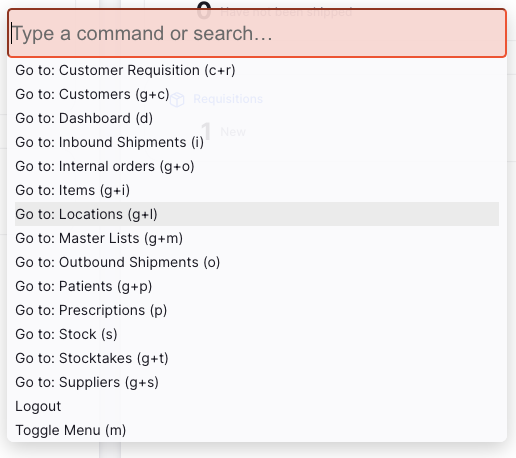
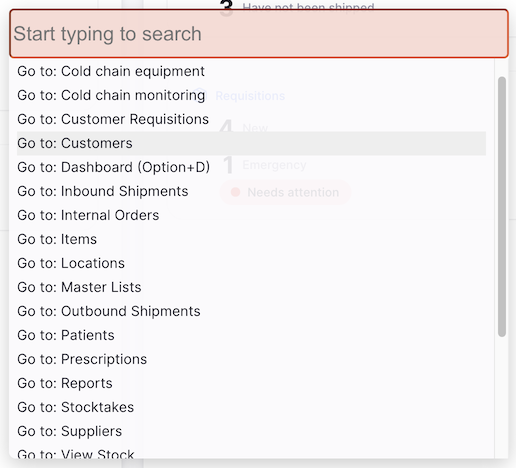
from 78172813e68f021678c5a8bc489794faebef0e90

Changed region(s): [[0.031, 0.2445, 0.9612, 1.0], [0.0, 0.0, 0.9922, 0.214], [0.9612, 0.1528, 0.9922, 0.7336]]

diff --git a/content/docs/settings/permissions/index.md b/content/docs/settings/permissions/index.md
@@ -24,40 +24,40 @@ The following table lists the area and name of the permissions in the central se
 
 In addition to these specific permissions, you'll need to ensure that the user has access to the store(s) which they'll be working in.
 
-| Tab                  | Area                        | Permission                                           | Description                                                                                                        |
-| -------------------- | --------------------------- | ---------------------------------------------------- | ------------------------------------------------------------------------------------------------------------------ |
-| Permissions          | Admin                       | Access server administration                         | Allows access to the `Settings` page                                                                               |
-|                      | Items                       | Manage locations                                     | Allows a user to maintain locations                                                                                |
-|                      |                             | Edit items                                           | Able to edit items, required when saving a barcode                                                                 |
-|                      |                             | Edit Item names, codes and units                     | Can maintain pack variants                                                                                         |
-|                      |                             | View stock                                           | View stock lines                                                                                                   |
-|                      |                             | Edit stock                                           | Modify stock lines                                                                                                 |
-|                      |                             | Create Repack Or Split Stock                         | Can create repack or split stock lines                                                                             |
-|                      |                             | Enter Inventory Adjustments                          | Can maintain inventory adjustments                                                                                 |
-| Permissions (2)      | Invoices                    | View customer invoices                               | Can view Outbound Shipments. Also used to query statistics on the dashboard                                        |
-|                      |                             | Create customer invoices                             | Can maintain Outbound Shipments                                                                                    |
-|                      |                             | Edit customer invoices                               | Can maintain Outbound Shipments - if either edit or create permission is given the user can edit                   |
-|                      |                             | Return stock from supplier invoices                  | Can return stock from Inbound Shipments                                                                            |
-|                      |                             | View supplier invoices                               | Can view Inbound Shipments. Also used to query statistics on the dashboard                                         |
-|                      |                             | Create supplier invoices                             | Can maintain Inbound Shipments                                                                                     |
-|                      |                             | Edit supplier invoices                               | Can maintain Inbound Shipments - if either edit or create permission is given the user can edit                    |
-|                      |                             | Return stock from customer invoices                  | Can return stock from Outbound Shipments                                                                           |
-|                      | Reports                     | View reports                                         | Required to print pages, as this uses the reporting system                                                         |
-|                      | Patients                    | View patients                                        | Can view Patients                                                                                                  |
-|                      |                             | Add Patients                                         | Can maintain Patients                                                                                              |
-|                      |                             | Edit Patient Details                                 | Can maintain Patients - if either add or edit permission is given the user can edit                                |
-| Permissions (3)      | Admin                       | View log                                             | Able to view the logs, these show as a tab on many windows                                                         |
-|                      | Requisitions                | View requisitions                                    | Can view Requisitions and R&R Forms                                                                                |
-|                      |                             | Create and edit requisitions                         | Can maintain Requisitions and R&R Forms                                                                            |
-|                      | Stocktakes                  | Create Stocktake                                     | Can create Stocktakes                                                                                              |
-|                      |                             | Delete Stocktake                                     | Can delete Stocktakes                                                                                              |
-|                      |                             | Add Stocktake lines                                  | Can add Stocktake lines                                                                                            |
-|                      |                             | Edit Stocktake lines                                 | Can edit Stocktake lines                                                                                           |
-|                      | Vaccines                    | View sensor details                                  | Can view sensor details                                                                                            |
-|                      |                             | Edit sensor location                                 | Can edit sensor location                                                                                           |
-|                      | Assets                      | View assets                                          | Can view Assets                                                                                                    |
-|                      |                             | Add, edit assets                                     | Can maintain Assets                                                                                                |
-|                      |                             | Setup Assets                                         | Can import Asset catalogue items                                                                                   |
-| omSupply Permissions | Internal Order              | Confirm Internal Order sent                          | Can confirm Internal Orders as sent                                                                                |
-|                      | API Access                  | Cold chain API access                                | Can access the Cold Chain API                                                                                      |
-|                      | Open mSupply Central Server | Can modify central data (requires mSupply v7.15.05+) | Can modify data managed by in the Open mSupply Central Server (e.g. Demographic Indicators, Immunization Programs) |
+| Tab                  | Area                        | Permission                                           | Description                                                                                                                                      |
+| -------------------- | --------------------------- | ---------------------------------------------------- | ------------------------------------------------------------------------------------------------------------------------------------------------ |
+| Permissions          | Admin                       | Access server administration                         | Allows access to the `Synchronisation`, `Support`, `Devices` and also, if on the central server, `Configuration` pages in the `Settings` section |
+|                      | Items                       | Manage locations                                     | Allows a user to maintain locations                                                                                                              |
+|                      |                             | Edit items                                           | Able to edit items, required when saving a barcode                                                                                               |
+|                      |                             | Edit Item names, codes and units                     | Can maintain pack variants                                                                                                                       |
+|                      |                             | View stock                                           | View stock lines                                                                                                                                 |
+|                      |                             | Edit stock                                           | Modify stock lines                                                                                                                               |
+|                      |                             | Create Repack Or Split Stock                         | Can create repack or split stock lines                                                                                                           |
+|                      |                             | Enter Inventory Adjustments                          | Can maintain inventory adjustments                                                                                                               |
+| Permissions (2)      | Invoices                    | View customer invoices                               | Can view Outbound Shipments. Also used to query statistics on the dashboard                                                                      |
+|                      |                             | Create customer invoices                             | Can maintain Outbound Shipments                                                                                                                  |
+|                      |                             | Edit customer invoices                               | Can maintain Outbound Shipments - if either edit or create permission is given the user can edit                                                 |
+|                      |                             | Return stock from supplier invoices                  | Can return stock from Inbound Shipments                                                                                                          |
+|                      |                             | View supplier invoices                               | Can view Inbound Shipments. Also used to query statistics on the dashboard                                                                       |
+|                      |                             | Create supplier invoices                             | Can maintain Inbound Shipments                                                                                                                   |
+|                      |                             | Edit supplier invoices                               | Can maintain Inbound Shipments - if either edit or create permission is given the user can edit                                                  |
+|                      |                             | Return stock from customer invoices                  | Can return stock from Outbound Shipments                                                                                                         |
+|                      | Reports                     | View reports                                         | Required to print pages, as this uses the reporting system                                                                                       |
+|                      | Patients                    | View patients                                        | Can view Patients                                                                                                                                |
+|                      |                             | Add Patients                                         | Can maintain Patients                                                                                                                            |
+|                      |                             | Edit Patient Details                                 | Can maintain Patients - if either add or edit permission is given the user can edit                                                              |
+| Permissions (3)      | Admin                       | View log                                             | Able to view the logs, these show as a tab on many windows                                                                                       |
+|                      | Requisitions                | View requisitions                                    | Can view Requisitions and R&R Forms                                                                                                              |
+|                      |                             | Create and edit requisitions                         | Can maintain Requisitions and R&R Forms                                                                                                          |
+|                      | Stocktakes                  | Create Stocktake                                     | Can create Stocktakes                                                                                                                            |
+|                      |                             | Delete Stocktake                                     | Can delete Stocktakes                                                                                                                            |
+|                      |                             | Add Stocktake lines                                  | Can add Stocktake lines                                                                                                                          |
+|                      |                             | Edit Stocktake lines                                 | Can edit Stocktake lines                                                                                                                         |
+|                      | Vaccines                    | View sensor details                                  | Can view sensor details                                                                                                                          |
+|                      |                             | Edit sensor location                                 | Can edit sensor location                                                                                                                         |
+|                      | Assets                      | View assets                                          | Can view Assets                                                                                                                                  |
+|                      |                             | Add, edit assets                                     | Can maintain Assets                                                                                                                              |
+|                      |                             | Setup Assets                                         | Can import Asset catalogue items                                                                                                                 |
+| omSupply Permissions | Internal Order              | Confirm Internal Order sent                          | Can confirm Internal Orders as sent                                                                                                              |
+|                      | API Access                  | Cold chain API access                                | Can access the Cold Chain API                                                                                                                    |
+|                      | Open mSupply Central Server | Can modify central data (requires mSupply v7.15.05+) | Can modify data managed by in the Open mSupply Central Server (e.g. Demographic Indicators, Immunization Programs)                               |

diff --git a/content/docs/getting_started/tutorial/index.es.md b/content/docs/getting_started/tutorial/index.es.md
@@ -12,10 +12,9 @@ template = "docs/page.html"
 toc = true
 +++
 
-## Tutorial Open mSupply 
+## Tutorial Open mSupply
 
 Este tutorial está diseñado para guiarte a través de los conceptos básicos del uso de Open mSupply.
-
 
 ## Inicio de sesión
 
@@ -27,12 +26,12 @@ Este tutorial está diseñado para guiarte a través de los conceptos básicos d
 
 4. Ingresa tu nombre de usuario y contraseña y presiona <enter> en tu teclado o haz clic en el botón [Iniciar sesión].
 
-Si todo va bien, serás redirigido a la página del tablero de control. 
+Si todo va bien, serás redirigido a la página del tablero de control.
 Si hubo un problema, verás un mensaje de error como este:
 
 ![login!](images/log_in_error.png)
 
- Intenta volver a escribir tu nombre de usuario y contraseña. Recuerda que ambos son sensibles a las mayúsculas y minúsculas. Una vez que hayas iniciado sesión, se seleccionará automáticamente el almacén predeterminado de tu usuario. Si tienes acceso a otros almacenes, podrás cambiar entre ellos después de iniciar sesión (ver más abajo).Si ya has iniciado sesión antes y has cambiado de almacén, se seleccionará automáticamente el almacén más reciente cuando inicies sesión de nuevo.
+Intenta volver a escribir tu nombre de usuario y contraseña. Recuerda que ambos son sensibles a las mayúsculas y minúsculas. Una vez que hayas iniciado sesión, se seleccionará automáticamente el almacén predeterminado de tu usuario. Si tienes acceso a otros almacenes, podrás cambiar entre ellos después de iniciar sesión (ver más abajo).Si ya has iniciado sesión antes y has cambiado de almacén, se seleccionará automáticamente el almacén más reciente cuando inicies sesión de nuevo.
 
 ## Navegación
 
@@ -53,13 +52,13 @@ Esto te mostrará la siguiente ventana, sin importar en qué página te encuentr
 
 ![CommandK](images/cmd_k.png)
 
-Esto te muestra la lista de atajos disponibles globalmente, por ejemplo, presionar `d` en tu teclado te llevará al tablero de control (¡a menos que estés escribiendo texto en un campo de entrada!).
+Esto te muestra la lista de atajos disponibles globalmente, por ejemplo, pulsando `Alt+D` (u `Opción+D` en un mac) en tu teclado te llevará al tablero de control (¡a menos que estés escribiendo texto en un campo de entrada!).
 
 Sin embargo, también puedes hacer clic en un elemento de la lista o buscar comandos disponibles:
 
-![CommandK](images/cmd_k.gif)
+![CommandK](images/cmd_k_filtered.png)
 
-Además, hay varios lugares donde están disponibles los atajos de teclado específicos. Un ejemplo es el control de pestañas utilizado tanto en Inventario como en Entradas. Aquí puedes usar `control`+`1` para navegar a la primera pestaña (Cantidades) o`control`+`2`  para la segunda pestaña (Precios), etc. Si presionas`+` en tu teclado, puedes agregar un nuevo lote.
+Además, hay varios lugares donde están disponibles los atajos de teclado específicos. Un ejemplo es el control de pestañas utilizado tanto en Inventario como en Entradas. Aquí puedes usar `control`+`1` para navegar a la primera pestaña (Cantidades) o`control`+`2` para la segunda pestaña (Precios), etc. Si presionas`+` en tu teclado, puedes agregar un nuevo lote.
 
 ![Inbound tabs](images/is_edit_keyboard_shortcuts.png)
 
@@ -78,7 +77,6 @@ Verás la notificación y el nombre del almacén en el pie de página se actuali
 De manera similar, puedes seleccionar otro idioma haciendo clic en el idioma actual en el pie de página:
 
 ![Footer](images/footer_select_language.png)
-
 
 ## ¡Ayuda!
 

diff --git a/content/docs/getting_started/tutorial/index.md b/content/docs/getting_started/tutorial/index.md
@@ -54,13 +54,15 @@ This will bring up the following window, no matter which page you are on:
 
 ![CommandK](images/cmd_k.png)
 
-This shows you the list of globally available shortcuts, for example pressing `d` on your keyboard will take you to the dashboard (unless you are entering text into an input field!).
+This shows you the list of globally available shortcuts, for example pressing `Alt+D` (or `Option+D` on a mac) on your keyboard will take you to the dashboard (unless you are entering text into an input field!).
 
-However, you can also click on an item in the list, or search available commands:
+However, you can also click on an item in the list using your mouse, or search available commands:
 
-![CommandK](images/cmd_k.gif)
+![CommandK](images/cmd_k_filtered.png)
 
-In addition - there are various places where specific keyboard shortcuts are available. An example is the tab control used in both Stocktakes and Inbound Shipments. Here you can use `control`+`1` to navigate to the first tab (Quantities) or `control`+`2` for the second tab (Pricing) etc. If you press `+` on your keyboard, you can add a new batch.
+You can then use the arrow keys on the keyboard to move up and down the list and click Enter/Return on the line highlighted in grey.
+
+There are also various places where specific keyboard shortcuts are available. An example is the tab control used in both Stocktakes and Inbound Shipments. Here you can use `control`+`1` to navigate to the first tab (Quantities) or `control`+`2` for the second tab (Pricing) etc. If you press `+` on your keyboard, you can add a new batch.
 
 ![Inbound tabs](images/is_edit_keyboard_shortcuts.png)
 

diff --git a/content/docs/getting_started/tutorial/index.fr.md b/content/docs/getting_started/tutorial/index.fr.md
@@ -54,11 +54,11 @@ Cela fera apparaître la fenêtre suivante, quelle que soit la page sur laquelle
 
 ![CommandK](images/cmd_k_fr.png)
 
-Vous verrez afficher la liste des raccourcis globalement disponibles. Par exemple en tapant la lettre `d` de votre clavier, cela vous amènera au tableau de bord (sauf si vous saisissez du texte!).
+Vous verrez afficher la liste des raccourcis globalement disponibles. Par exemple en appuyant sur `Alt+D` (ou `Option+D` sur un mac) de votre clavier, cela vous amènera au tableau de bord (sauf si vous saisissez du texte!).
 
 Cependant, vous pouvez également cliquer sur un élément de la liste ou rechercher les commandes disponibles :
 
-![CommandK](images/cmd_k.gif)
+![CommandK](images/cmd_k_filtered.png)
 
 De plus, il existe divers endroits où des raccourcis clavier spécifiques sont disponibles. Un exemple est l'onglet de contrôle utilisé aussi bien pour Les Inventaires que pour Les Livraisons. Ici, vous pouvez utiliser `control`+`1` pour accéder au premier onglet (Quantités) ou `control`+`2` pour le second onglet (Tarification) etc. Vous pouvez ajouter un nouveau lot en tapant la touche `+` de votre clavier.
 

diff --git a/content/docs/getting_started/tutorial/index.pt.md b/content/docs/getting_started/tutorial/index.pt.md
@@ -53,11 +53,11 @@ Isto abrirá a seguinte janela, independentemente da página em que se encontra:
 
 ![CommandK](images/cmd_k.png)
 
-Isto mostra a lista de atalhos disponíveis globalmente, por exemplo, premir `d` no seu teclado irá levá-lo ao painel (a menos que esteja a introduzir texto num campo de entrada!).
+Isto mostra a lista de atalhos disponíveis globalmente, por exemplo, pressionando `Alt+D` (ou `Option+D` em um mac) no seu teclado irá levá-lo ao painel (a menos que esteja a introduzir texto num campo de entrada!).
 
 No entanto, também pode clicar num item da lista ou pesquisar os comandos disponíveis:
 
-![CommandK](images/cmd_k.gif)
+![CommandK](images/cmd_k_filtered.png)
 
 Além disso, existem vários locais onde estão disponíveis atalhos de teclado específicos. Um exemplo é o controlo de separadores utilizado em Inventários e Remessas de Entrada. Aqui pode usar `control`+`1` para navegar até ao primeiro separador (Quantidades) ou `control`+`2` para o segundo separador (Preços) etc. Se premir `+` no seu teclado, pode adicionar um novo lote.
 

diff --git a/content/docs/inventory/locations/index.md b/content/docs/inventory/locations/index.md
@@ -46,7 +46,7 @@ A window like this opens:
 
 1. **Name**: Enter the name of the new location
 2. **Code**: Enter a code for the new location
-3. **Temperature** (optional): Select the storage temperature range. These options are configured as [Location Types](https://docs.msupply.org.nz/items:item_locations?s[]=location&s[]=type#location_types) on the mSupply Central Server.
+3. **Cold storage type** (optional): Select the cold storage type. These options are configured as [Location Types](https://docs.msupply.org.nz/items:item_locations?s[]=location&s[]=type#location_types) on the mSupply Central Server.
 4. **On Hold** (checkbox): If you check this box, then goods in this location cannot be selected for issue to customers. Goods can be moved in to, and out, of the location but they cannot be issued from that location.
 
 <div class="tip">

diff --git a/content/docs/settings/devices/index.md b/content/docs/settings/devices/index.md
@@ -19,13 +19,15 @@ The devices settings section allows you to configure devices that you may have c
 
 To view the display settings, go to `Settings` in the lower section of the navigation panel:
 
-![Admin: nav](images/admin_nav.png)
+![Admin: nav](../images/admin_nav.png)
 
 You will see the list of settings sections:
 
 ![Admin: collapsed](images/admin_collapsed.png)
 
 Click on the `Devices` section to begin.
+
+<div class="note">You will require the <code>Access server administration</code> permission, as noted in the <a href="../permissions/">Permissions</a> page</div>
 
 ## Label Printing
 

diff --git a/content/docs/settings/support/index.md b/content/docs/settings/support/index.md
@@ -19,9 +19,11 @@ The support section provides some tools for troubleshooting and supporting an Op
 
 To view the server log, go to `Settings` in the lower section of the navigation panel:
 
-![Admin: nav](images/admin_nav.png)
+![Admin: nav](../images/admin_nav.png)
 
 You will see the `Support` section below the Synchronisation settings, click on this to view the options.
+
+<div class="note">You will require the <code>Access server administration</code> permission, as noted in the <a href="../permissions/">Permissions</a> page</div>
 
 ![Support: server log](images/support_server_log.png)
 

diff --git a/content/docs/settings/synchronisation/index.md b/content/docs/settings/synchronisation/index.md
@@ -18,9 +18,11 @@ top = false
 
 To view the synchronisation settings, go to `Settings` in the lower section of the navigation panel:
 
-![admin: nav](images/admin_nav.png)
+![admin: nav](../images/admin_nav.png)
 
 You will see the synchronisation section below the display settings, click on this to view the options.
+
+<div class="note">You will require the <code>Access server administration</code> permission, as noted in the <a href="../permissions/">Permissions</a> page</div>
 
 ![admin: page](images/administration.png)
 

diff --git a/content/docs/settings/configuration/index.fr.md b/content/docs/settings/configuration/index.fr.md
@@ -19,7 +19,7 @@ La section des paramètres de configuration vous permet de configurer des donné
 
 Pour afficher les paramètres de configuration, accédez à `Paramètres` dans la section inférieure du panneau de navigation :
 
-![Settings: nav](images/admin_nav.png)
+![Settings: nav](../images/admin_nav_fr.png)
 
 Si vous êtes sur le serveur central Open mSupply, vous verrez cette liste de sections de paramètres :
 

diff --git a/content/docs/sync/synchronisation/index.fr.md b/content/docs/sync/synchronisation/index.fr.md
@@ -18,7 +18,7 @@ top = false
 
 Pour afficher l'état de synchronisation, accédez à `Synchronisation` dans la partie inférieure du panneau de navigation :
 
-![sync: nav](images/sync_nav.png)
+![sync: nav](../images/sync_nav_fr.png)
 
 La page affiche le nombre d'enregistrements en attente d'être envoyés vers les serveurs centraux et l'heure à laquelle la dernière synchronisation a eu lieu.
 

diff --git a/content/docs/sync/synchronisation/index.md b/content/docs/sync/synchronisation/index.md
@@ -18,7 +18,7 @@ top = false
 
 To view the synchronisation status, click `Sync` in the lower section of the navigation panel or press CTRL+ALT+S (CTRL+OPT+S if using a mac) on your keyboard:
 
-![sync: nav](images/sync_nav.png)
+![sync: nav](../images/sync_nav.png)
 
 The window shows the number of records waiting to be pushed to the central servers, and the time that the last sync happened.
 
